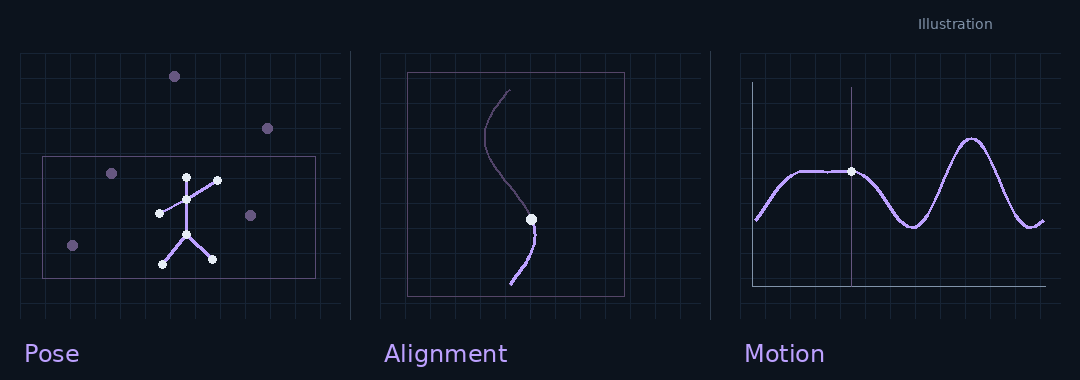
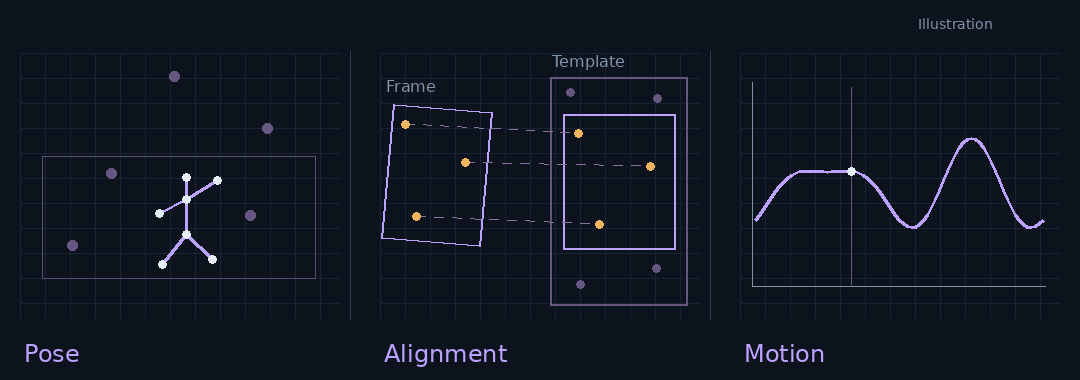
Clarify stereo headline and illustrate frame-to-template alignment

diff --git a/tools/render_illustrations.py b/tools/render_illustrations.py
@@ -174,11 +174,32 @@ def make_motion(phase):
     joints=[(cx,cy-22),(cx,cy),(cx-27,cy+14),(cx+31,cy-19),(cx,cy+35),(cx-24,cy+65),(cx+26,cy+60)]
     for i,j in [(0,1),(1,2),(1,3),(1,4),(4,5),(4,6)]:d.line((*joints[i],*joints[j]),fill=PURPLE,width=3)
     for x,y in joints:dot(d,x,y,TEXT,4)
-    # Schematic wall coordinates and aligned trajectory.
-    d.rectangle((407,72,624,296),outline='#554668')
-    path=[(510+25*math.sin(i/72*math.tau),284-i/72*195) for i in range(73)]
-    d.line(path,fill='#514368',width=2);n=max(2,int(progress*72)+1)
-    d.line(path[:n],fill=PURPLE,width=3);dot(d,*path[n-1],TEXT,5)
+    # A moving local video frame maps to a fixed window in wall-template space.
+    # Reference correspondences are synthetic, not recovered research results.
+    d.text((386,77),'Frame',font=font(16),fill=MUTED)
+    d.text((552,52),'Template',font=font(16),fill=MUTED)
+    d.rectangle((550,77,687,305),outline='#665780',width=2)
+    for x,y in [(570,92),(657,98),(580,284),(656,268)]:dot(d,x,y,'#665780',4)
+    refs=[(578,133),(650,166),(599,224)]
+    window=(563,114,675,249)
+    d.rectangle(window,outline=PURPLE,width=2)
+    theta=.10*math.sin(phase);cx=437;cy=180+9*math.cos(phase)
+    def local(u,v):
+        x,y=(u-.5)*97,(v-.5)*135
+        return (cx+x*math.cos(theta)-y*math.sin(theta),
+                cy+x*math.sin(theta)+y*math.cos(theta))
+    corners=[local(0,0),local(1,0),local(1,1),local(0,1)]
+    d.line(corners+[corners[0]],fill=PURPLE,width=2)
+    for x,y in refs:
+        sx,sy=local((x-window[0])/(window[2]-window[0]),
+                    (y-window[1])/(window[3]-window[1]))
+        # Dashed links distinguish correspondences from motion trajectories.
+        for k in range(0,20,2):
+            t0,t1=k/20,(k+1)/20
+            d.line((sx+(x-sx)*t0,sy+(y-sy)*t0,
+                    sx+(x-sx)*t1,sy+(y-sy)*t1),fill='#88729f',width=1)
+        dot(d,sx,sy,GOLD,4);dot(d,x,y,GOLD,4)
+    n=max(2,int(progress*72)+1)
     d.line((752,286,1045,286),fill=MUTED);d.line((752,82,752,286),fill=MUTED)
     curve=[(755+i*4,220-65*math.sin(i/72*math.tau)**2-17*math.sin(i/72*math.tau*3)) for i in range(73)]
     d.line(curve,fill=PURPLE,width=3);x,y=curve[min(72,n-1)];d.line((x,87,x,286),fill='#665780');dot(d,x,y,TEXT,4)

diff --git a/README.md b/README.md
@@ -11,7 +11,7 @@ M.Sc. in **Robotic Systems Engineering · RWTH Aachen University**.
 ## Selected work
 
 ### 01 / Stereo perception
-**Making thin obstacles useful to the perception system.**
+**Turning sparse observations into usable obstacle geometry.**
 
 <img src="assets/stereo.gif" width="100%" alt="Top-view synthetic stereo illustration: forward camera field of view, visible surfaces and geometric scene representation." />
 
